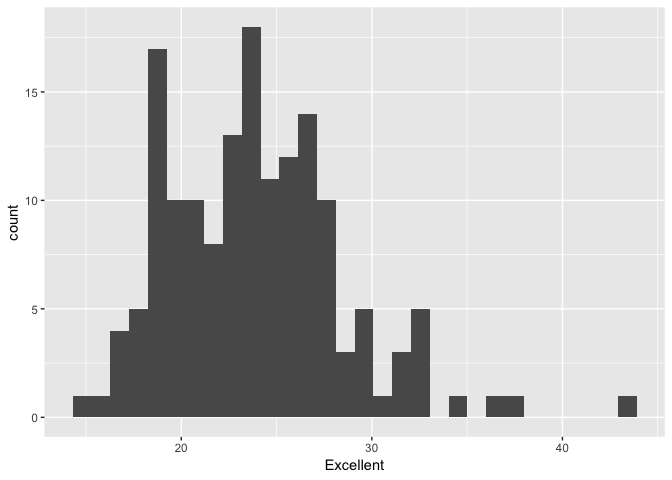
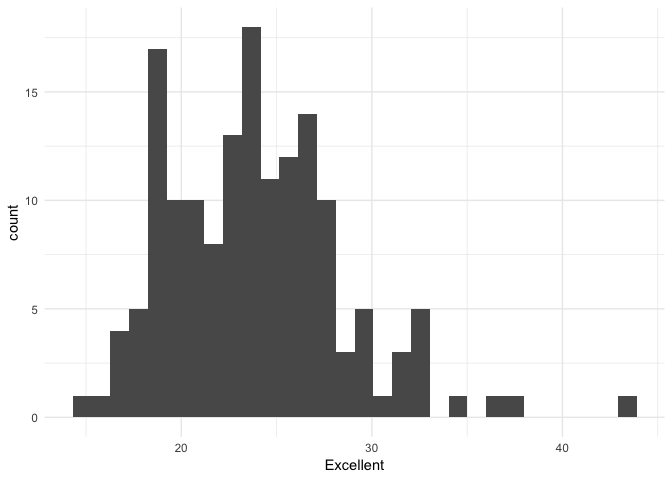
Format changes to graphs

diff --git a/p8105_hw2_gsl2116.md b/p8105_hw2_gsl2116.md
@@ -127,7 +127,8 @@ There are 404 unique locations included in the dataset. There are 51 states (plu
 ``` r
 filter(brfss_data, year == 2002) %>% 
   ggplot(aes(x = Excellent)) +
-  geom_histogram()
+  geom_histogram() +
+  theme_minimal()
 ```
 
     ## `stat_bin()` using `bins = 30`. Pick better value with `binwidth`.
